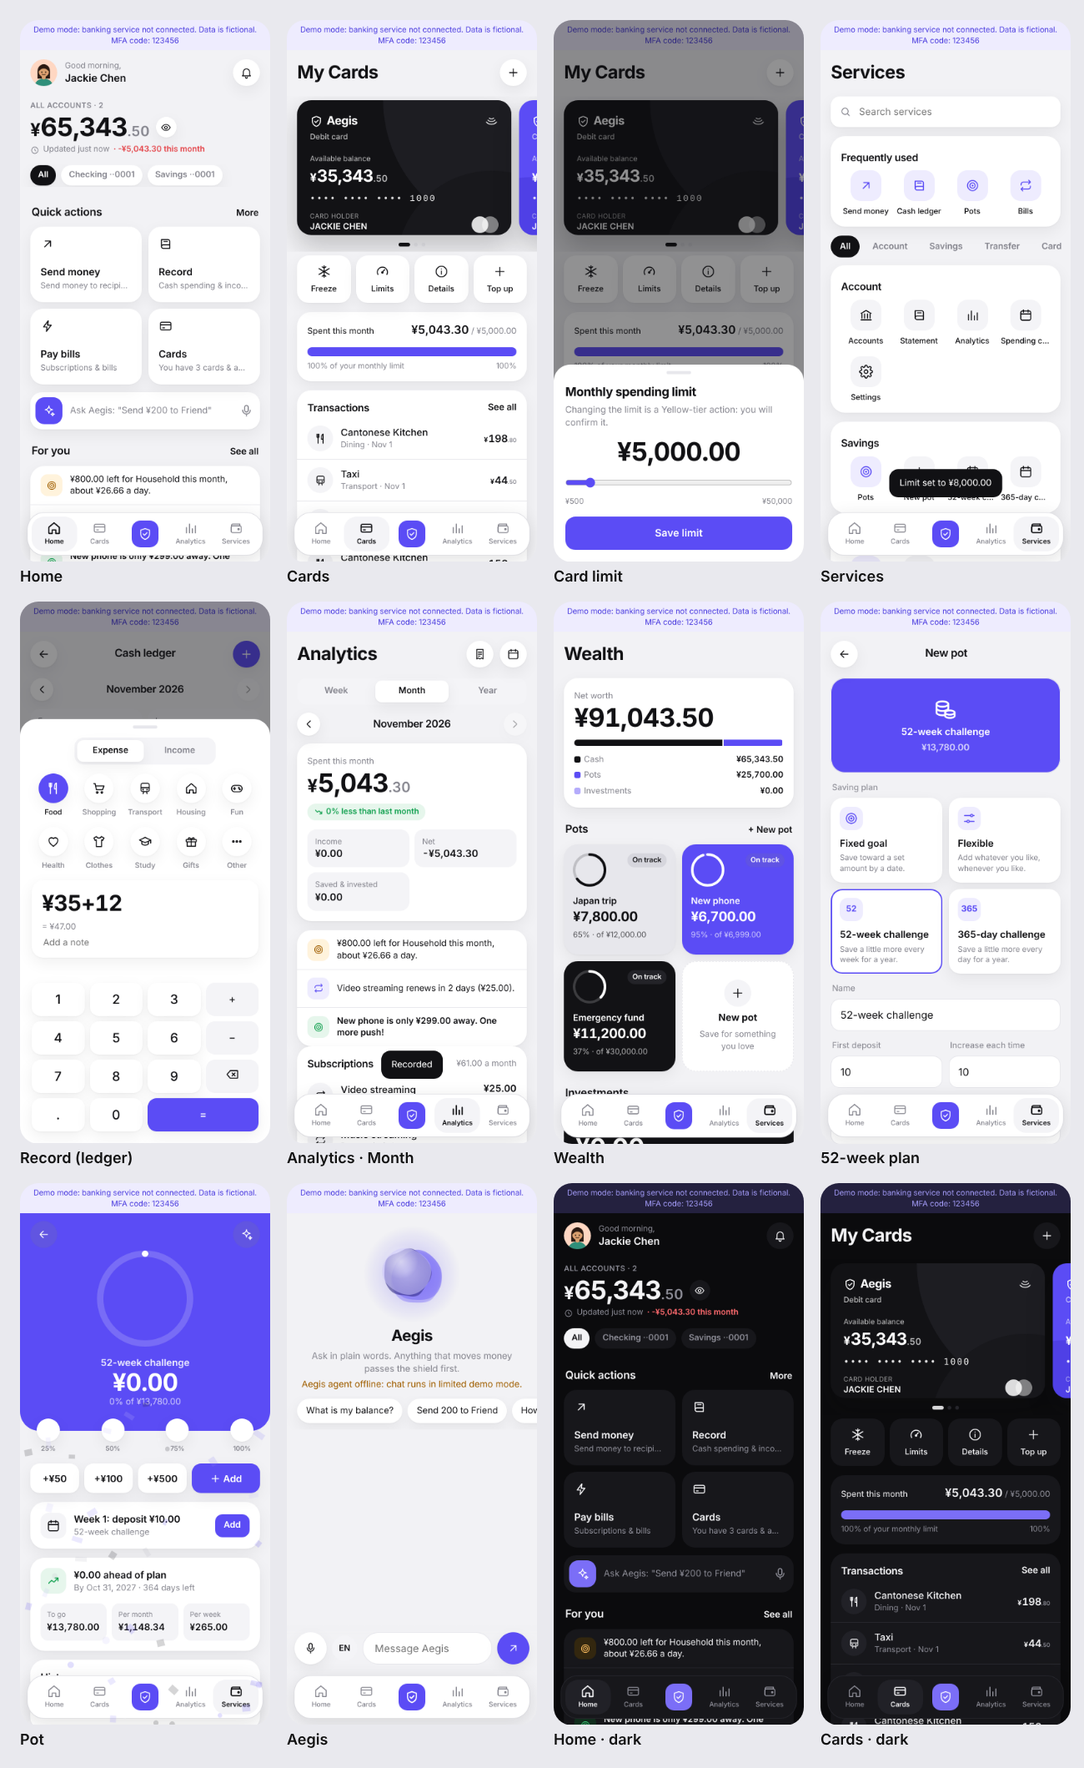
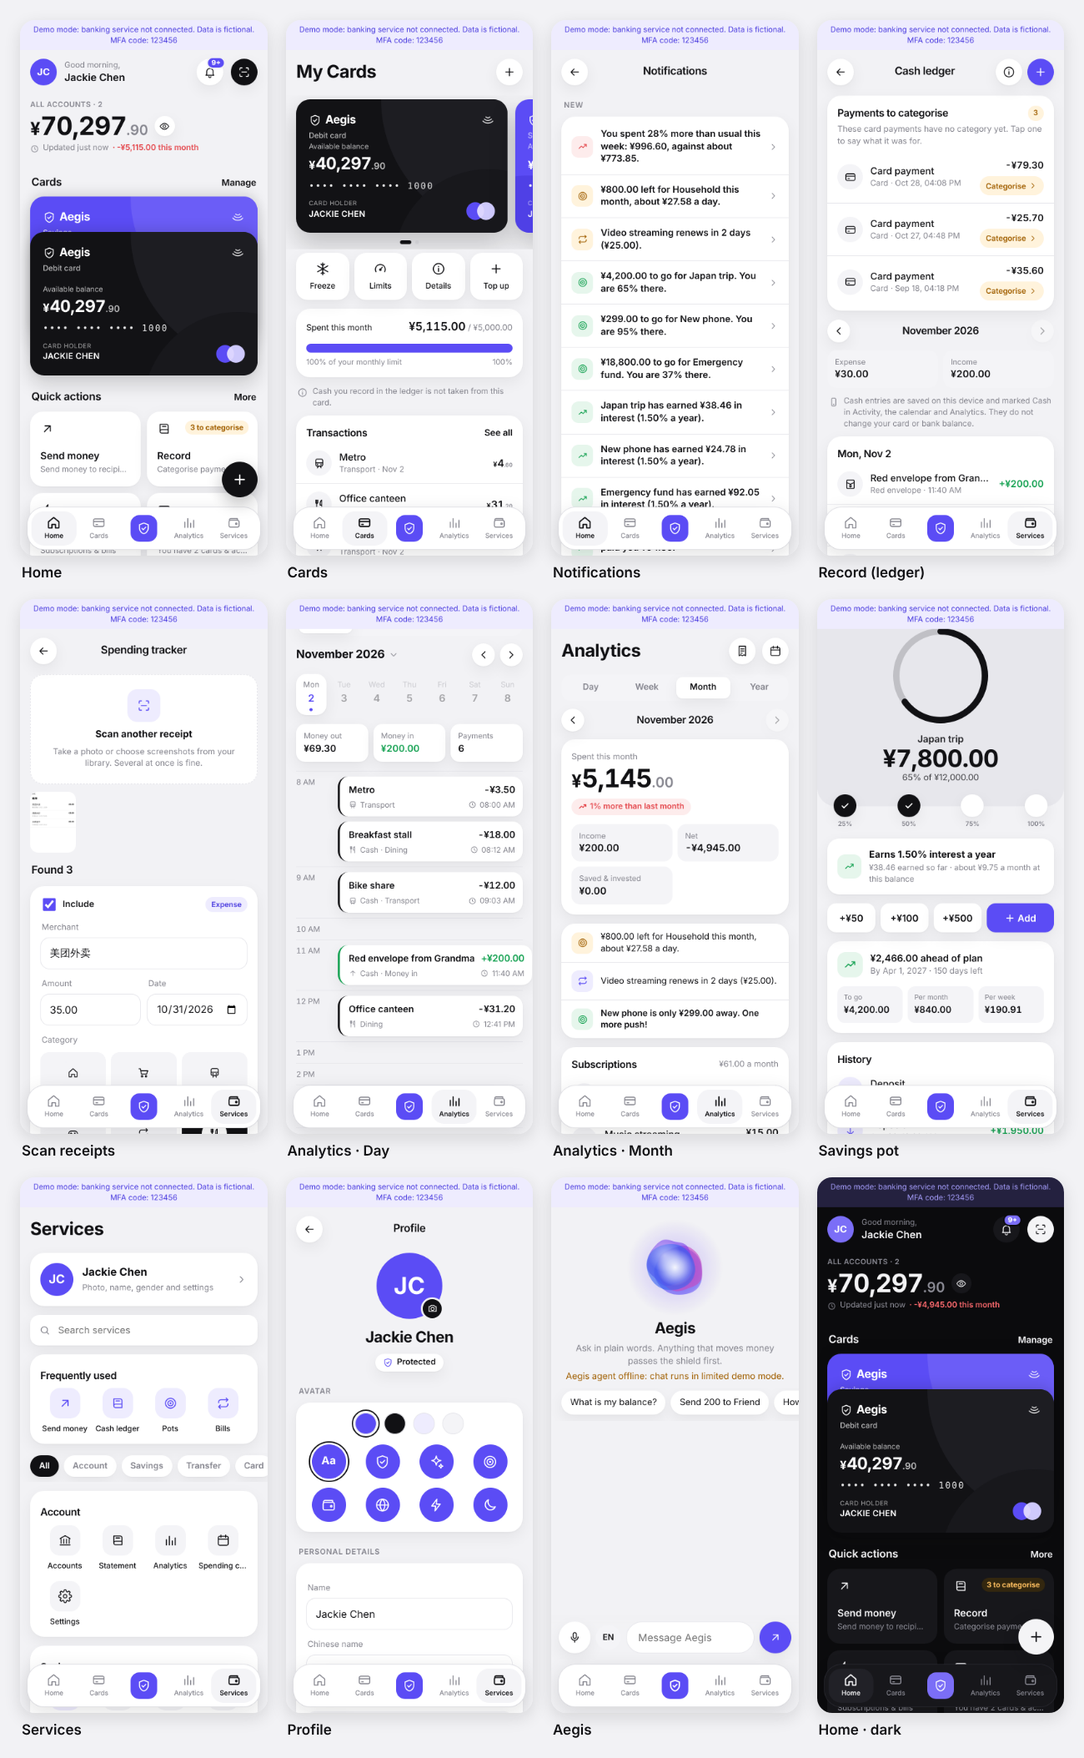
Update Aegis README and screenshots to match the current app
New screens overview (Home, Cards, Notifications, Record, Scan, Analytics
Day/Month, Pot, Services, Profile, Aegis, dark mode). README now covers the
notifications inbox, categorising in the ledger, multi-receipt scanning,
pot interest, the daily transfer limit rules, profile, the expanded
category list, and step-by-step running in demo, live and Xcode.

Claude-Session: https://claude.ai/code/session_014M7QbvauuTdiUQvrQdRf8F

diff --git a/frontend/aegis-pwa/README.md b/frontend/aegis-pwa/README.md
@@ -6,17 +6,23 @@ The mobile front end for FinSAO, built as a **React + TypeScript PWA**. The same
 
 ## What's in it
 
-| Tab | What it does | Backend |
+Tabs: **Home · Cards · Aegis · Analytics · Services**.
+
+| Screen | What it does | Backend |
 |---|---|---|
-| **Home** | Total balance on a soft colour background, swipeable account cards, quick actions (send, scan receipt, start a pot), **For you** reminders, the Ask Aegis bar, a People row and recent activity | `/accounts`, `/balance`, `/transactions`, `/budgets`, `/subscriptions`, `/savings-pots` |
-| **Insights** | The money dashboard: spent / income / net, reminders, a button to the **spending calendar**, spending pace vs last month and budget, an under-budget streak, budgets with "left per day", a category donut, 6-month cash flow, top merchants, and subscriptions you can cancel | `/budgets/{id}/status`, `/subscriptions/{id}/cancel`, transactions |
-| **Spending calendar** | Month grid with money out (darker = bigger day) and money in per day; tap a day for its transactions | transactions |
-| **Aegis** (centre) | Agent chat with a living voice orb. Tapping it opens full-screen voice mode: the orb reacts to your voice, words appear live, and they're sent when you stop | Agent `/agent/tasks`, `/agent/tasks/{id}/resume` |
-| **Wealth** | Net worth (cash + pots + investments), rich pot cards, and the **investment tracker**: a 5-question risk profile, portfolio with allocation, products with buy/sell (Red tier, 6-digit code) | `/wealth/products`, `/holdings`, `/recommendations`, `/risk-assessment`, `/orders`, `/redemptions`, `/orders/{id}/commit` |
-| **Pot detail** | Colour hero with progress ring, milestones 25/50/75/100, on-track check with catch-up amount, quick add (+¥50/100/500), funded deposits through the shield, history, what-if calculator, emoji and colour picker. **Confetti** at milestones and a celebration screen at 100% | `/savings-pots/{id}`, `/contributions` (funded, `savings.contribute` tier) |
-| **Track spending** | Scan a receipt (recognition service, see below) and match it to a bank transaction, or correct any transaction's category | `PATCH /transactions/{id}/category`, `/agent/receipts/parse`, `/expenses` |
-| **Send money** | People and recipients, a big-amount send screen, shield approval; the receipt appears **only after `COMPLETED`** | `/beneficiaries`, `/transfers/drafts`, `/transfers/{id}/commit` |
-| **Me** | Cards (freeze, report lost), the Green/Yellow/Red tiers, language (中文/EN), theme, connection status, and an API log with trace IDs | `/cards/{id}/freeze`, `/unfreeze`, `/report-lost` |
+| **Home** | Total balance (tap the eye to hide it), cards stacked like a wallet (tap one to bring it forward), quick actions, the Ask Aegis bar, reminders, upcoming bills, People and recent activity. Top right: the **notifications bell** (with an unread count) and the **receipt scan** button | `/accounts`, `/balance`, `/activity`, `/cards`, `/budgets`, `/subscriptions`, `/savings-pots` |
+| **Notifications** | Bills due within a week, how far each savings goal still has to go, interest paid into pots, investment payouts (dividends, interest), spending this week against your usual, a category running above its usual, budget warnings and unusually large payments. Built on the device; read state is remembered locally | same data as Home |
+| **Cards** | Card carousel, freeze, spending limit (Yellow), card details, report lost (Red), this month's spending against the limit | `/cards/{id}/freeze`, `/unfreeze`, `/limit`, `/report-lost` |
+| **Record (cash ledger)** | Opened from the **Record** tile, which shows "N to categorise". At the top, **Payments to categorise** lists every card payment without a category, with a Categorise button. Below, record cash spending and income with a keypad (it does sums like `35+12`). A short "How the ledger works" card explains it the first time | `PATCH /transactions/{id}/category` |
+| **Scan receipts** | Photo or screenshots from the library, several at once. A bill-list screenshot (Alipay / WeChat Pay style) gives one entry per payment. Edit the merchant, amount, date and category, use a matching bank payment, or save as cash expenses | `/expenses` (live), local OCR (see below) |
+| **Analytics** | **Day**: a week strip and an hourly timeline of what you paid and when. **Week / Month / Year**: spent, income, net, pace against last period, budgets, category donut, cash flow, top merchants, subscriptions you can cancel | `/activity`, `/budgets/{id}/status`, `/subscriptions/{id}/cancel` |
+| **Spending calendar** | The same day timeline as a full screen, with a date picker | `/activity` |
+| **Aegis** (centre tab) | Agent chat with a living voice orb. Tapping the orb opens full-screen voice mode: words appear live and are sent when you stop | Agent `/agent/tasks`, `/agent/tasks/{id}/resume` |
+| **Send money** | People and recipients, an amount screen, shield approval; the receipt appears **only after `COMPLETED`**. Backing out at the shield cancels the draft | `/beneficiaries`, `/transfers/drafts`, `/transfers/{id}/commit`, `/transfers/{id}/cancel` |
+| **Savings pots** | Progress ring, milestones, on-track check, quick add, funded deposits through the shield, history, **interest rate and interest earned**. Plans: fixed goal, flexible, 52-week and 365-day challenges | `/savings-pots`, `/contributions`, `/savings-pots/{id}/interest` |
+| **Wealth** | Net worth (cash + pots + investments), a 5-question risk profile, products with buy/sell (Red tier) | `/wealth/*` |
+| **Services** | Profile card, search, frequently used, and every feature grouped by tab (Account, Savings, Transfer, Card, Payment, Wealth, Ledger) | — |
+| **Profile** | Photo (from the library, resized on the device) or an icon and colour, name, Chinese name, gender, birthday, phone; then the Green/Yellow/Red tiers, language (中文/EN), theme, connection status and an API log with trace IDs | stored on the device |
 
 ### The shield (`src/ui/Shield.tsx`)
 Every sensitive action, whether from a screen or from chat, goes through one approval sheet. The tier always comes from the backend's `risk_tier`:
@@ -26,108 +32,101 @@ Every sensitive action, whether from a screen or from chat, goes through one app
 - **RED**: the backend sends a 6-digit MFA challenge (`/security/approvals/{id}/mfa`), and the code is verified with `/security/mfa/{id}/verify`.
 
 Current backend policy:
-- Transfers are Yellow until today's total passes ¥1,000, then Red.
-- Card freeze and subscription cancel are Yellow.
-- Report lost and wealth orders are Red.
+- **Transfers** are Yellow while **today's total, including this one, is ¥1,000 or less**, and Red above that. So ¥100 can be Red if you already sent ¥1,000 today. Pending drafts count only until they expire (15 minutes), and backing out cancels them.
+- **Pot deposits** are Yellow up to ¥1,000, Red above.
+- **Card freeze, card limit and subscription cancel** are Yellow.
+- **Report lost and wealth orders** are Red.
 
 ## Team JSON rules this follows
 
 - **Money**: always decimal strings (`"800.00"`), with integer-cent `BigInt` math in `src/core/money.ts`. No floats.
-- **Trace IDs**: every request has `X-Trace-Id`. They are shown in **Me → API log**.
+- **Trace IDs**: every request has `X-Trace-Id`. They are shown in **Profile → API log**.
 - **Idempotency**: transfer drafts send an `Idempotency-Key` header, and pots/contributions send `idempotency_key` in the body. There is **one key per intent**: retrying the same transfer reuses the key, and changing anything creates a new one.
 - **`authorization_ref`**: kept in memory only and passed straight to the commit call. It is never stored or logged; the API log masks it (and MFA codes) as `••••••`.
 - **Beneficiaries**: a new recipient must match an account number exactly. Nothing is guessed.
-- **Spending categories**: `HOUSEHOLD, GROCERIES, TRANSPORT, ENTERTAINMENT, DINING, UNKNOWN`.
-- **Not in the backend yet, so shown honestly as preview**:
-  - "Add money" shows a "planned" toast.
-  - The pot calculator is labelled "illustration only".
-  - Voice uses browser speech recognition with an optional backend transcription fallback.
+- **Spending categories**: the backend taxonomy (`HOUSEHOLD, GROCERIES, TRANSPORT, ENTERTAINMENT, SUBSCRIPTIONS, DINING, UTILITIES, HEALTHCARE, EDUCATION, CHILDCARE, TRAVEL, SHOPPING, PERSONAL_CARE, PETS, GIFTS, INSURANCE, TAXES, FEES, REPAIRS, OTHER`). `UNKNOWN` means "not categorised yet" and is never offered as a choice.
+- **Direction**: comes from the backend's `direction` on `/activity`. A transfer to another customer is money out; a transfer between your own accounts, into a pot or into an investment is a move and doesn't count as spending.
 - **Chat guards**: messages containing passwords, codes or card numbers are blocked before sending, and obvious prompt-injection attempts are refused.
 
 ## Look and feel
 
-Minimal and flat: white, black and one purple (`#5b4cf5`), with green/red only for money in and out, and the system font. No emojis: pots, the ledger and services use line icons. Bank cards are drawn in CSS (black, purple and white finishes with chip, contactless mark and wordmark, `src/ui/BankCard.tsx`). Charts use shades of the purple (`--cat-*` in `styles.css`).
+Minimal and flat: white, black and one purple (`#5b4cf5`), with green/red only for money in and out, and the system font. No emojis: everything uses line icons. Bank cards are drawn in CSS (black, purple and white finishes, `src/ui/BankCard.tsx`). Charts use shades of the purple. Light and dark themes.
 
-Tabs: **Home · Cards · Aegis · Analytics · Services**. Services is the hub for pots and saving plans (fixed, flexible, 52-week, 365-day), investments, the cash ledger, bills, receipt scanning and settings.
+Demo mode (no backend) ships about three months of fictional activity relative to today, including monthly fund dividends (`src/core/mockdata.ts`). Live mode shows only what Banking Core returns.
 
-Demo mode (no backend) ships about three months of fictional activity relative to today (`src/core/mockdata.ts`). Live mode shows only what Banking Core returns.
-
-- **Signed-in persona:** "Jackie Chen" (`PROFILE` in `src/core/people.ts`).
+- **Signed-in persona:** "Jackie Chen" by default; the Profile screen changes the name and picture on the device.
 - **Contacts:** the People grid uses the family accounts seeded in Banking Core (爸爸, 妈妈 and so on). Tapping a contact saves them as a recipient through the backend's exact account-number match.
-- **Real photos:** put square images in `public/avatars/` and list them in `PHOTOS` in `src/core/people.ts`. Anyone without a photo keeps the illustration. Only use photos you have permission to use.
+- **Real photos for contacts:** put square images in `public/avatars/` and list them in `PHOTOS` in `src/core/people.ts`. Anyone without a photo keeps the illustration. Only use photos you have permission to use.
 
 ## Receipt and voice recognition
 
-Local receipt OCR is the default: Tesseract runs in a browser worker and the photo never leaves the device. If `VITE_MULTIMEDIA_BACKEND=true` and the Agent is live, the app first calls the optional backend and falls back to local OCR on any failure.
+**Receipts are read on the device by default.** Tesseract (Chinese + English) runs in a browser worker, and the photo never leaves the phone.
+- The engine and language files (16 MB) are copied into `public/ocr` by `npm run dev` / `npm run build`. They are served by the app itself, never from a foreign CDN, so this works in mainland China. After the first scan it also works offline.
+- Before reading, the picture is turned grey and darkened, so faint grey dates and labels in screenshots can be read.
+- `src/core/receipt.ts` then finds:
+  - the shop name: from labels like 商户全称 or 收款方, or from the top of the receipt, skipping greetings, order numbers and the phone's status bar
+  - the total
+  - the date
+  - a category, scored by the shop name and the payment app's own label (餐饮美食, 交通出行…)
+  - every row of a bill list
 
-Receipt endpoint:
+  Its tests are in `tests/receipt.test.mjs`.
+
+**Optional backend recognition.** If `VITE_MULTIMEDIA_BACKEND=true` and the Agent is live, the app first calls the backend and falls back to local OCR on any failure:
 
 ```text
-POST /api/agent/receipts/parse
-multipart/form-data: upload=<image>
+POST /api/agent/receipts/parse        multipart/form-data: upload=<image>
+POST /api/agent/audio/transcribe      multipart/form-data: upload=<audio>
 ```
+
+Receipt response:
 
 ```json
-{
-  "items": [
-    {
-      "merchant": "Cafe",
-      "amount": "18.50",
-      "currency": "CNY",
-      "date": "2026-11-01",
-      "category": "DINING"
-    }
-  ]
-}
+{ "items": [ { "merchant": "Cafe", "amount": "18.50", "currency": "CNY", "date": "2026-11-01", "category": "DINING" } ] }
 ```
 
-When Banking Core is live, confirmed receipt rows are saved through `POST /api/core/expenses` with an idempotency key. Demo mode keeps them in the device cash ledger. Voice uses browser speech recognition first; if it is unavailable and `VITE_MULTIMEDIA_BACKEND=true`, the app records audio and calls:
+Both endpoints are off by default. Turn them on with `MULTIMEDIA_ENABLED=true` and the `MULTIMEDIA_VISION_*` / `MULTIMEDIA_SPEECH_*` variables in the repository `.env.example`. Failures return `503 MULTIMEDIA_UNAVAILABLE`, and the app keeps its local fallback.
 
-```text
-POST /api/agent/audio/transcribe
-multipart/form-data: upload=<audio>
-```
-
-Both backend endpoints are disabled by default. Configure `MULTIMEDIA_ENABLED=true` plus the provider-specific `MULTIMEDIA_VISION_*` and `MULTIMEDIA_SPEECH_*` variables described in the repository `.env.example`. Failures return `503 MULTIMEDIA_UNAVAILABLE`; the app keeps its local fallback.
+**Voice** uses the browser's speech recognition first. If that's unavailable and `VITE_MULTIMEDIA_BACKEND=true`, the app records audio and uses the transcribe endpoint.
 
 ## Run it
 
-You need Node 22.12+ and the backend from the repo root (see the main `README.md`).
+You need **Node 22.12+**. For live data you also need the backend from the repo root (Python 3.12, PostgreSQL via Docker; see the main `README.md`).
 
 ```bash
 cd frontend/aegis-pwa
-npm install
+npm ci
 ```
 
-**Dev, with hot reload.** Vite proxies `/api/core` → `:8000` and `/api/agent` → `:8100` and adds the service tokens:
+**Demo mode, no backend.** If Banking Core can't be reached, the app switches to demo mode by itself. It uses fictional data, a purple banner at the top, and MFA code `123456`:
 
 ```bash
 npm run dev
 ```
 
-**Production build, served the same way:**
+**Everything live.** Start Banking Core (`:8000`) and the Agent (`:8100`) from the repo root first. The app's server adds the service tokens and proxies `/api/core` → `:8000` and `/api/agent` → `:8100`:
 
 ```bash
 npm run build && npm run serve
 ```
 
-Open http://127.0.0.1:5174.
+Open http://127.0.0.1:5174. **No purple "Demo mode" banner** means it's connected. With the real backend, the MFA code is `MOCK_MFA_CODE` from `.env`.
 
-**No backend running?** The app switches to **demo mode** with fictional seed data, and the demo MFA code is `123456`. With the real backend, the MFA code is the `MOCK_MFA_CODE` in `.env`.
+`npm run serve` serves the build that existed when it started, so restart it after each `npm run build`.
+
+**On a phone (same Wi-Fi):**
+
+```bash
+HOST=0.0.0.0 npm run serve
+```
+
+Then open `http://<your-computer-ip>:5174`. Get the IP on a Mac with `ipconfig getifaddr en0`. iPhones only allow the microphone on HTTPS, so use the native app (below) to demo voice.
 
 Proxy environment variables (shared by `vite.config.ts` and `server.mjs`):
 
 `CORE_BACKEND_URL`, `AGENT_BACKEND_URL`, `BANKING_SERVICE_TOKEN`, `AGENT_API_TOKEN`, `RECOGNITION_BACKEND_URL`, `RECOGNITION_TOKEN`, `PORT`, `HOST`, `ALLOWED_ORIGINS`
 
 The tokens are added **on the server**. The browser bundle never contains them.
-
-**Test on your phone (same Wi-Fi):**
-
-```bash
-HOST=0.0.0.0 npm run serve
-```
-
-Then open `http://<your-computer-ip>:5174`. Installing it as an app ("Add to Home Screen") requires HTTPS or localhost.
 
 ### Checks
 
@@ -136,42 +135,45 @@ npm run typecheck
 npm test
 ```
 
-`npm test` covers money math, the token-adding proxy, path traversal and the CORS allowlist.
+`npm test` covers money math, the token-adding proxy, path traversal, the CORS allowlist and the receipt parser.
 
 ## iOS and Android (Capacitor)
 
-`ios/` and `android/` are generated native projects that wrap the `dist/` build.
+`ios/` and `android/` are generated native projects that wrap the `dist/` build. Inside the native app there is no same-origin proxy, so build it with `VITE_API_BASE` pointing at a running `server.mjs`. Without it, the native app opens in demo mode.
 
-**iOS** needs a Mac with Xcode:
-
-```bash
-npm run cap:ios
-```
-
-**Android** needs Android Studio:
+**iOS Simulator with the live backend** (keep `npm run serve` running):
 
 ```bash
-npm run cap:android
+VITE_API_BASE=http://localhost:5174 npm run cap:ios
 ```
 
-Inside the native app there is no same-origin proxy. Build with `VITE_API_BASE` pointing at a running `server.mjs` (or another gateway that adds the tokens server-side):
+**Real iPhone** (same Wi-Fi; start the server with `HOST=0.0.0.0 npm run serve`):
 
 ```bash
-VITE_API_BASE=https://your-gateway.example npm run cap:sync
+VITE_API_BASE=http://<your-mac-ip>:5174 npm run cap:ios
 ```
 
-`server.mjs` accepts the native app origins (`capacitor://localhost`, `https://localhost`) and rejects any other cross-origin caller. Use HTTPS for the gateway. Android blocks plain HTTP by default.
+Xcode opens. Under **App → Signing & Capabilities**, choose your Team, pick a simulator or your iPhone, and press ▶. On a phone, the first launch needs **Settings → General → VPN & Device Management → Trust**.
 
-Without `VITE_API_BASE`, the native app opens in demo mode.
+- **Plain HTTP:** `Info.plist` allows plain HTTP to the local network only (`NSAllowsLocalNetworking`). Use HTTPS for any gateway on the internet.
+- **Permissions:** the camera, photo library, microphone and speech permission texts are set for iOS. Android has `CAMERA` and `RECORD_AUDIO`.
+- **Recording a demo:** in the Simulator, choose **File → Record Screen**.
+
+**Android** needs Android Studio (`npm run cap:android`). Android blocks plain HTTP by default, so point `VITE_API_BASE` at an HTTPS gateway.
+
+`server.mjs` accepts the native app origins (`capacitor://localhost`, `https://localhost`) and rejects any other cross-origin caller.
 
 ## Layout
 
 ```
-src/core/     framework-free TypeScript: API client, demo backend, money, i18n, formatting
-src/ui/       shared React pieces: Shield (approval sheet), Sheet, Amount, TxRow
-src/screens/  Home, Trends, Aegis, Pay, Pot, Activity, Me
+src/core/     framework-free TypeScript: API client, demo backend, money, i18n, formatting,
+              receipt parser, notifications, cash ledger, profile store
+src/ui/       shared React pieces: Shield (approval sheet), Sheet, BankCard, voice orb, avatars
+src/screens/  Home, Cards, Inbox, Ledger, Track (scan), Insights, Calendar, Aegis, Pay, Pot,
+              Wealth, Services, Me (profile), Activity
 src/app/      app state (language, theme, refresh, toast), hash router, shell + tab bar
 public/       manifest, service worker (caches the app shell only, never /api), icons
+scripts/      copy-ocr.mjs: puts the OCR engine and language files in public/ocr
 server.mjs    static server + token-adding proxy + CORS allowlist for native apps
 ```
 
@@ -179,10 +181,9 @@ server.mjs    static server + token-adding proxy + CORS allowlist for native app
 
 ## Known limits
 
-- **Incoming vs outgoing money**: Banking Core doesn't mark rows as debit or credit, so direction is inferred from the category (`src/core/format.ts`).
-- **Agent in English**: with `MODEL_PROVIDER=offline`, the agent's rule-based router only understands Chinese phrasing (e.g. 查询余额). Connect an LLM provider in `.env` for free-form English.
-- **Savings pots** are funded by Banking Core (`savings.contribute`: Yellow up to ¥1,000, Red above). Pot colour and emoji are stored on the device only, because the backend doesn't store them.
-- **Cash ledger** entries are stored on the device only: Banking Core has no endpoint for manual entries, so they are not part of budgets or analytics.
-- **Investment returns** aren't shown: Banking Core has no rates or prices, so the tracker shows invested amounts and allocation only.
-- **Voice**: the browser's speech recognition hears one language at a time. The 中/EN button next to the mic switches it, separately from the app's language.
-- **App store icons and splash screens**: still the Capacitor defaults. Generate them from `public/icons/icon.svg` with `@capacitor/assets`.
+- **Device-only data:** manual cash-ledger entries, the profile (name, photo, gender), pot colours and icons, and which notifications were read are all stored on the device. Scanned receipts are saved to Banking Core (`/expenses`) when it is live.
+- **Cash in budgets:** cash entries count in Analytics, the calendar and notifications, but not in Banking Core's budget status.
+- **Agent language:** with `MODEL_PROVIDER=offline`, the agent's rule-based router mainly understands set phrasings. Connect an LLM provider in `.env` (for example DeepSeek) for free-form chat.
+- **Investment returns:** Banking Core has no prices, so the tracker shows invested amounts and allocation. Payouts appear as incoming `INTEREST` transactions.
+- **Voice:** the browser's speech recognition hears one language at a time. The 中/EN button next to the mic switches it. Inside the native iOS app, speech-to-text may be unavailable, depending on the iOS version.
+- **App store icons and splash screens:** still the Capacitor defaults. Generate them from `public/icons/icon.svg` with `@capacitor/assets`.
